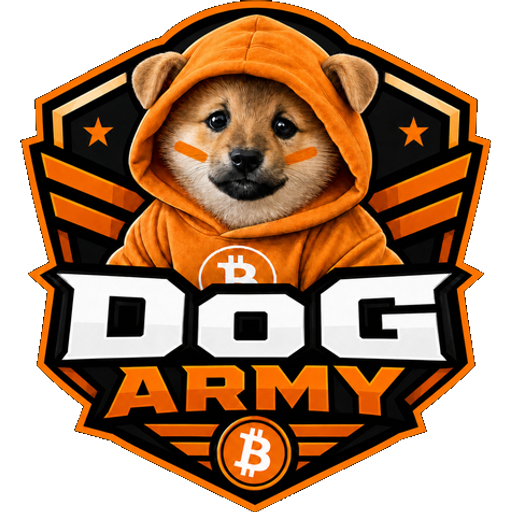
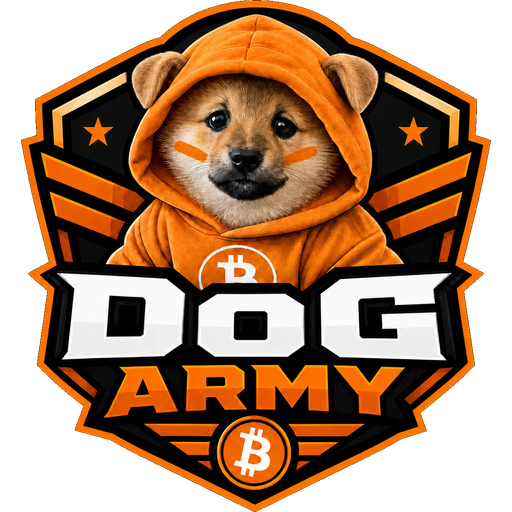
ícones oficiais DOG ARMY em todo o site + DogMarket volta à arte original do rune
- public/dog-army-mark-transparent.png: derivado sem fundo do brasão canônico
  (áreas pretas internas do escudo preservadas); favicon.ico (16/32/48),
  favicon-16/32/48.png, apple-touch-icon e icon-192/512 regenerados a partir dele
- DogMarket é a exceção de arte de protocolo: cards e diálogos usam
  public/dog-rune-840000-3.png (arte original transparente do Rune 840000:3),
  nunca o brasão do site — regra documentada no dogarmy-memory.md
- bumps de cache (?v=) automáticos nas 15 páginas

diff --git a/dogmarket.html b/dogmarket.html
@@ -15,12 +15,12 @@
 <meta name="twitter:title" content="DogMarket · Buy & sell $DOG on Bitcoin">
 <meta name="twitter:description" content="Live DOG rune listings, bought and sold straight from your KRAY Wallet.">
 <meta name="twitter:image" content="https://dogarmy.space/public/og-card.png?v=d04cb8c614">
-<link rel="icon" href="/public/favicon.ico?v=64aabe184b" sizes="any">
-<link rel="icon" type="image/png" sizes="32x32" href="/public/favicon-32.png?v=7e09acc205">
-<link rel="icon" type="image/png" sizes="16x16" href="/public/favicon-16.png?v=06de286ca2">
-<link rel="apple-touch-icon" href="/public/apple-touch-icon.png?v=51ec561b9a">
+<link rel="icon" href="/public/favicon.ico?v=b8b40b2d88" sizes="any">
+<link rel="icon" type="image/png" sizes="32x32" href="/public/favicon-32.png?v=568912e90f">
+<link rel="icon" type="image/png" sizes="16x16" href="/public/favicon-16.png?v=96f76c57ec">
+<link rel="apple-touch-icon" href="/public/apple-touch-icon.png?v=1ab30e10fe">
 <link rel="preload" as="font" href="/public/fonts/geist-sans.woff2" type="font/woff2" crossorigin>
-<link rel="stylesheet" href="/styles.css?v=a61fc0d8b9">
+<link rel="stylesheet" href="/styles.css?v=7ca76274e1">
 <link rel="canonical" href="https://dogarmy.space/dogmarket">
 <style>
 /* ── DogMarket · scoped UI (brand: orange #ff5c00 on #030303) ───────── */
@@ -374,6 +374,6 @@
 <div class="dm-toasts" id="dmToasts" aria-live="polite"></div>
 
 <script src="/i18n.js?v=e6889f97b8"></script>
-<script src="/dogmarket.js?v=f84220c0a1" defer></script>
+<script src="/dogmarket.js?v=1ad32397ef" defer></script>
 </body>
 </html>

diff --git a/noticias.html b/noticias.html
@@ -15,13 +15,13 @@
 <meta name="twitter:title" content="DOG News · Receipts, not hype">
 <meta name="twitter:description" content="Verified coverage of DOG (Bitcoin), DOG Mode, Runestone and the DOG Army.">
 <meta name="twitter:image" content="https://dogarmy.space/public/culture/pics/dogmode1.jpg?v=05a98093ef">
-<link rel="icon" href="/public/favicon.ico?v=64aabe184b" sizes="any">
-<link rel="icon" type="image/png" sizes="32x32" href="/public/favicon-32.png?v=7e09acc205">
-<link rel="icon" type="image/png" sizes="16x16" href="/public/favicon-16.png?v=06de286ca2">
-<link rel="apple-touch-icon" href="/public/apple-touch-icon.png?v=51ec561b9a">
+<link rel="icon" href="/public/favicon.ico?v=b8b40b2d88" sizes="any">
+<link rel="icon" type="image/png" sizes="32x32" href="/public/favicon-32.png?v=568912e90f">
+<link rel="icon" type="image/png" sizes="16x16" href="/public/favicon-16.png?v=96f76c57ec">
+<link rel="apple-touch-icon" href="/public/apple-touch-icon.png?v=1ab30e10fe">
 <link rel="preload" as="font" href="/public/fonts/geist-sans.woff2" type="font/woff2" crossorigin>
 <link rel="preload" as="image" href="/public/culture/pics/dogmode1.jpg?v=05a98093ef">
-<link rel="stylesheet" href="/styles.css?v=a61fc0d8b9">
+<link rel="stylesheet" href="/styles.css?v=7ca76274e1">
 <link rel="canonical" href="https://dogarmy.space/noticias">
 </head>
 <body class="news-page">

diff --git a/doc.html b/doc.html
@@ -6,11 +6,11 @@
 <title>Documento · DOG ARMY</title>
 <meta name="description" content="Visualizador de documentos de transparência da DOG ARMY — leia qualquer relatório on-chain do $DOG direto no navegador.">
 <meta name="robots" content="noindex, follow">
-<link rel="icon" href="/public/favicon.ico?v=64aabe184b" sizes="any">
-<link rel="icon" type="image/png" sizes="32x32" href="/public/favicon-32.png?v=7e09acc205">
-<link rel="apple-touch-icon" href="/public/apple-touch-icon.png?v=51ec561b9a">
+<link rel="icon" href="/public/favicon.ico?v=b8b40b2d88" sizes="any">
+<link rel="icon" type="image/png" sizes="32x32" href="/public/favicon-32.png?v=568912e90f">
+<link rel="apple-touch-icon" href="/public/apple-touch-icon.png?v=1ab30e10fe">
 <link rel="preload" href="/public/fonts/geist-sans.woff2" as="font" type="font/woff2" crossorigin>
-<link rel="stylesheet" href="/styles.css?v=a61fc0d8b9">
+<link rel="stylesheet" href="/styles.css?v=7ca76274e1">
 <style>
 .doc-top{position:sticky;top:0;z-index:50;display:flex;align-items:center;justify-content:space-between;gap:16px;padding:10px 24px;background:linear-gradient(90deg,rgba(124,43,10,.96),rgba(191,77,24,.94) 42%,rgba(236,121,35,.9) 100%);border-bottom:1px solid rgba(255,199,130,.28);box-shadow:0 14px 34px rgba(0,0,0,.26)}
 .doc-top .brand-logo img{display:block;height:48px;width:auto}

diff --git a/runestone.html b/runestone.html
@@ -17,12 +17,12 @@
 <meta name="twitter:title" content="Runestone · The cornerstone of $DOG">
 <meta name="twitter:description" content="When Bitcoin started carrying history, not just value. The on chain origin of $DOG, told with the facts.">
 <meta name="twitter:image" content="https://dogarmy.space/public/runestone-01-hero.jpeg?v=37146fcabf">
-<link rel="icon" href="/public/favicon.ico?v=64aabe184b" sizes="any">
-<link rel="icon" type="image/png" sizes="32x32" href="/public/favicon-32.png?v=7e09acc205">
-<link rel="icon" type="image/png" sizes="16x16" href="/public/favicon-16.png?v=06de286ca2">
-<link rel="apple-touch-icon" href="/public/apple-touch-icon.png?v=51ec561b9a">
+<link rel="icon" href="/public/favicon.ico?v=b8b40b2d88" sizes="any">
+<link rel="icon" type="image/png" sizes="32x32" href="/public/favicon-32.png?v=568912e90f">
+<link rel="icon" type="image/png" sizes="16x16" href="/public/favicon-16.png?v=96f76c57ec">
+<link rel="apple-touch-icon" href="/public/apple-touch-icon.png?v=1ab30e10fe">
 <link rel="preload" href="/public/fonts/geist-sans.woff2" as="font" type="font/woff2" crossorigin>
-<link rel="stylesheet" href="/styles.css?v=a61fc0d8b9">
+<link rel="stylesheet" href="/styles.css?v=7ca76274e1">
 <link rel="canonical" href="https://dogarmy.space/runestone">
 <style>
 /* ajustes específicos da página Runestone */

diff --git a/investigacao.html b/investigacao.html
@@ -15,12 +15,12 @@
 <meta name="twitter:title" content="The Binance File · who feeds the 12% whale?">
 <meta name="twitter:description" content="51 withdrawals in 22 months. Zero back. One entity, 12% of $DOG. The dates line up. Do your own research.">
 <meta name="twitter:image" content="https://dogarmy.space/public/og-card.png?v=d04cb8c614">
-<link rel="icon" href="/public/favicon.ico?v=64aabe184b" sizes="any">
-<link rel="icon" type="image/png" sizes="32x32" href="/public/favicon-32.png?v=7e09acc205">
-<link rel="icon" type="image/png" sizes="16x16" href="/public/favicon-16.png?v=06de286ca2">
-<link rel="apple-touch-icon" href="/public/apple-touch-icon.png?v=51ec561b9a">
+<link rel="icon" href="/public/favicon.ico?v=b8b40b2d88" sizes="any">
+<link rel="icon" type="image/png" sizes="32x32" href="/public/favicon-32.png?v=568912e90f">
+<link rel="icon" type="image/png" sizes="16x16" href="/public/favicon-16.png?v=96f76c57ec">
+<link rel="apple-touch-icon" href="/public/apple-touch-icon.png?v=1ab30e10fe">
 <link rel="preload" as="font" href="/public/fonts/geist-sans.woff2" type="font/woff2" crossorigin>
-<link rel="stylesheet" href="/styles.css?v=a61fc0d8b9">
+<link rel="stylesheet" href="/styles.css?v=7ca76274e1">
 <link rel="canonical" href="https://dogarmy.space/investigacao">
 </head>
 <body>

diff --git a/dog-proof-of-reserves.html b/dog-proof-of-reserves.html
@@ -15,12 +15,12 @@
 <meta name="twitter:title" content="DOG Proof of Reserves Watch">
 <meta name="twitter:description" content="Track DOG exchange wallet evidence and verify public reserve claims.">
 <meta name="twitter:image" content="https://dogarmy.space/public/og-card.png?v=d04cb8c614">
-<link rel="icon" href="/public/favicon.ico?v=64aabe184b" sizes="any">
-<link rel="icon" type="image/png" sizes="32x32" href="/public/favicon-32.png?v=7e09acc205">
-<link rel="icon" type="image/png" sizes="16x16" href="/public/favicon-16.png?v=06de286ca2">
-<link rel="apple-touch-icon" href="/public/apple-touch-icon.png?v=51ec561b9a">
+<link rel="icon" href="/public/favicon.ico?v=b8b40b2d88" sizes="any">
+<link rel="icon" type="image/png" sizes="32x32" href="/public/favicon-32.png?v=568912e90f">
+<link rel="icon" type="image/png" sizes="16x16" href="/public/favicon-16.png?v=96f76c57ec">
+<link rel="apple-touch-icon" href="/public/apple-touch-icon.png?v=1ab30e10fe">
 <link rel="preload" as="font" href="/public/fonts/geist-sans.woff2" type="font/woff2" crossorigin>
-<link rel="stylesheet" href="/styles.css?v=a61fc0d8b9">
+<link rel="stylesheet" href="/styles.css?v=7ca76274e1">
 <link rel="canonical" href="https://dogarmy.space/dog-proof-of-reserves">
 </head>
 <body>

diff --git a/how-to-store-dog-rune.html b/how-to-store-dog-rune.html
@@ -15,12 +15,12 @@
 <meta name="twitter:title" content="How to Store DOG Rune Safely">
 <meta name="twitter:description" content="A clear self-custody guide for DOG•GO•TO•THE•MOON holders.">
 <meta name="twitter:image" content="https://dogarmy.space/public/og-card.png?v=d04cb8c614">
-<link rel="icon" href="/public/favicon.ico?v=64aabe184b" sizes="any">
-<link rel="icon" type="image/png" sizes="32x32" href="/public/favicon-32.png?v=7e09acc205">
-<link rel="icon" type="image/png" sizes="16x16" href="/public/favicon-16.png?v=06de286ca2">
-<link rel="apple-touch-icon" href="/public/apple-touch-icon.png?v=51ec561b9a">
+<link rel="icon" href="/public/favicon.ico?v=b8b40b2d88" sizes="any">
+<link rel="icon" type="image/png" sizes="32x32" href="/public/favicon-32.png?v=568912e90f">
+<link rel="icon" type="image/png" sizes="16x16" href="/public/favicon-16.png?v=96f76c57ec">
+<link rel="apple-touch-icon" href="/public/apple-touch-icon.png?v=1ab30e10fe">
 <link rel="preload" as="font" href="/public/fonts/geist-sans.woff2" type="font/woff2" crossorigin>
-<link rel="stylesheet" href="/styles.css?v=a61fc0d8b9">
+<link rel="stylesheet" href="/styles.css?v=7ca76274e1">
 <link rel="canonical" href="https://dogarmy.space/how-to-store-dog-rune">
 </head>
 <body>

diff --git a/what-is-dog-bitcoin.html b/what-is-dog-bitcoin.html
@@ -15,12 +15,12 @@
 <meta name="twitter:title" content="What is DOG on Bitcoin?">
 <meta name="twitter:description" content="A direct beginner guide to DOG•GO•TO•THE•MOON, Bitcoin Rune #3.">
 <meta name="twitter:image" content="https://dogarmy.space/public/og-card.png?v=d04cb8c614">
-<link rel="icon" href="/public/favicon.ico?v=64aabe184b" sizes="any">
-<link rel="icon" type="image/png" sizes="32x32" href="/public/favicon-32.png?v=7e09acc205">
-<link rel="icon" type="image/png" sizes="16x16" href="/public/favicon-16.png?v=06de286ca2">
-<link rel="apple-touch-icon" href="/public/apple-touch-icon.png?v=51ec561b9a">
+<link rel="icon" href="/public/favicon.ico?v=b8b40b2d88" sizes="any">
+<link rel="icon" type="image/png" sizes="32x32" href="/public/favicon-32.png?v=568912e90f">
+<link rel="icon" type="image/png" sizes="16x16" href="/public/favicon-16.png?v=96f76c57ec">
+<link rel="apple-touch-icon" href="/public/apple-touch-icon.png?v=1ab30e10fe">
 <link rel="preload" as="font" href="/public/fonts/geist-sans.woff2" type="font/woff2" crossorigin>
-<link rel="stylesheet" href="/styles.css?v=a61fc0d8b9">
+<link rel="stylesheet" href="/styles.css?v=7ca76274e1">
 <link rel="canonical" href="https://dogarmy.space/what-is-dog-bitcoin">
 </head>
 <body>

diff --git a/index.html b/index.html
@@ -22,11 +22,11 @@
 <meta name="twitter:image" content="https://dogarmy.space/public/og-card.png?v=d04cb8c614">
 <meta name="twitter:image:alt" content="Join the DOG ARMY. Don't trust. Verify. Defend permissionless Bitcoin.">
 <!-- Favicon (DOG ARMY badge, transparent) -->
-<link rel="icon" href="/public/favicon.ico?v=64aabe184b" sizes="any">
-<link rel="icon" type="image/png" sizes="32x32" href="/public/favicon-32.png?v=7e09acc205">
-<link rel="icon" type="image/png" sizes="16x16" href="/public/favicon-16.png?v=06de286ca2">
-<link rel="apple-touch-icon" href="/public/apple-touch-icon.png?v=51ec561b9a">
-<link rel="stylesheet" href="/styles.css?v=a61fc0d8b9">
+<link rel="icon" href="/public/favicon.ico?v=b8b40b2d88" sizes="any">
+<link rel="icon" type="image/png" sizes="32x32" href="/public/favicon-32.png?v=568912e90f">
+<link rel="icon" type="image/png" sizes="16x16" href="/public/favicon-16.png?v=96f76c57ec">
+<link rel="apple-touch-icon" href="/public/apple-touch-icon.png?v=1ab30e10fe">
+<link rel="stylesheet" href="/styles.css?v=7ca76274e1">
 <!-- Intro gate. Render-blocking on purpose: decides before first paint whether
      the presentation video opens (3-day TTL). External file = CSP-safe. -->
 <script src="/intro.js?v=ff31726ee3"></script>

diff --git a/dog-rune.html b/dog-rune.html
@@ -15,12 +15,12 @@
 <meta name="twitter:title" content="DOG Rune Guide">
 <meta name="twitter:description" content="Understand DOG•GO•TO•THE•MOON as Rune 840000:3 on Bitcoin.">
 <meta name="twitter:image" content="https://dogarmy.space/public/og-card.png?v=d04cb8c614">
-<link rel="icon" href="/public/favicon.ico?v=64aabe184b" sizes="any">
-<link rel="icon" type="image/png" sizes="32x32" href="/public/favicon-32.png?v=7e09acc205">
-<link rel="icon" type="image/png" sizes="16x16" href="/public/favicon-16.png?v=06de286ca2">
-<link rel="apple-touch-icon" href="/public/apple-touch-icon.png?v=51ec561b9a">
+<link rel="icon" href="/public/favicon.ico?v=b8b40b2d88" sizes="any">
+<link rel="icon" type="image/png" sizes="32x32" href="/public/favicon-32.png?v=568912e90f">
+<link rel="icon" type="image/png" sizes="16x16" href="/public/favicon-16.png?v=96f76c57ec">
+<link rel="apple-touch-icon" href="/public/apple-touch-icon.png?v=1ab30e10fe">
 <link rel="preload" as="font" href="/public/fonts/geist-sans.woff2" type="font/woff2" crossorigin>
-<link rel="stylesheet" href="/styles.css?v=a61fc0d8b9">
+<link rel="stylesheet" href="/styles.css?v=7ca76274e1">
 <link rel="canonical" href="https://dogarmy.space/dog-rune">
 </head>
 <body>

diff --git a/web3.html b/web3.html
@@ -15,12 +15,12 @@
 <meta name="twitter:title" content="DOG ARMY Social Space">
 <meta name="twitter:description" content="Your rank lives on Bitcoin. Connect, verify, enlist.">
 <meta name="twitter:image" content="https://dogarmy.space/public/og-card.png?v=d04cb8c614">
-<link rel="icon" href="/public/favicon.ico?v=64aabe184b" sizes="any">
-<link rel="icon" type="image/png" sizes="32x32" href="/public/favicon-32.png?v=7e09acc205">
-<link rel="icon" type="image/png" sizes="16x16" href="/public/favicon-16.png?v=06de286ca2">
-<link rel="apple-touch-icon" href="/public/apple-touch-icon.png?v=51ec561b9a">
+<link rel="icon" href="/public/favicon.ico?v=b8b40b2d88" sizes="any">
+<link rel="icon" type="image/png" sizes="32x32" href="/public/favicon-32.png?v=568912e90f">
+<link rel="icon" type="image/png" sizes="16x16" href="/public/favicon-16.png?v=96f76c57ec">
+<link rel="apple-touch-icon" href="/public/apple-touch-icon.png?v=1ab30e10fe">
 <link rel="preload" as="font" href="/public/fonts/geist-sans.woff2" type="font/woff2" crossorigin>
-<link rel="stylesheet" href="/styles.css?v=a61fc0d8b9">
+<link rel="stylesheet" href="/styles.css?v=7ca76274e1">
 <link rel="canonical" href="https://dogarmy.space/web3">
 </head>
 <body>

diff --git a/planos.html b/planos.html
@@ -15,12 +15,12 @@
 <meta name="twitter:title" content="DOG ARMY Plans">
 <meta name="twitter:description" content="Talk. Plan. Fund. Execute with receipts on Bitcoin.">
 <meta name="twitter:image" content="https://dogarmy.space/public/og-card.png?v=d04cb8c614">
-<link rel="icon" href="/public/favicon.ico?v=64aabe184b" sizes="any">
-<link rel="icon" type="image/png" sizes="32x32" href="/public/favicon-32.png?v=7e09acc205">
-<link rel="icon" type="image/png" sizes="16x16" href="/public/favicon-16.png?v=06de286ca2">
-<link rel="apple-touch-icon" href="/public/apple-touch-icon.png?v=51ec561b9a">
+<link rel="icon" href="/public/favicon.ico?v=b8b40b2d88" sizes="any">
+<link rel="icon" type="image/png" sizes="32x32" href="/public/favicon-32.png?v=568912e90f">
+<link rel="icon" type="image/png" sizes="16x16" href="/public/favicon-16.png?v=96f76c57ec">
+<link rel="apple-touch-icon" href="/public/apple-touch-icon.png?v=1ab30e10fe">
 <link rel="preload" as="font" href="/public/fonts/geist-sans.woff2" type="font/woff2" crossorigin>
-<link rel="stylesheet" href="/styles.css?v=a61fc0d8b9">
+<link rel="stylesheet" href="/styles.css?v=7ca76274e1">
 <link rel="canonical" href="https://dogarmy.space/planos">
 </head>
 <body>
